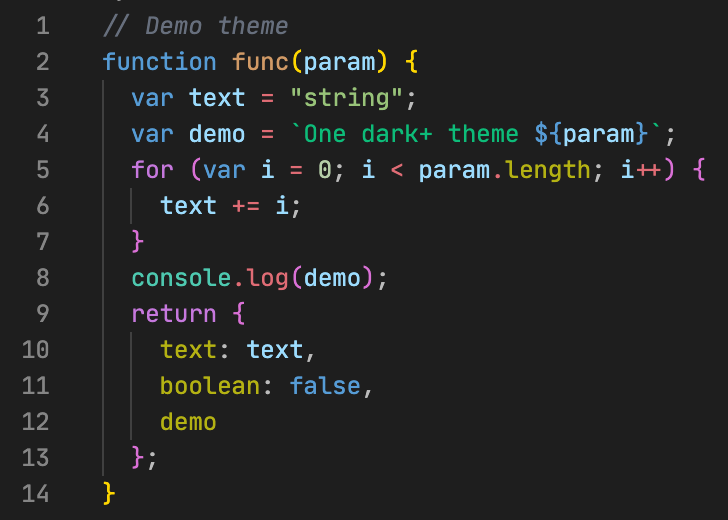
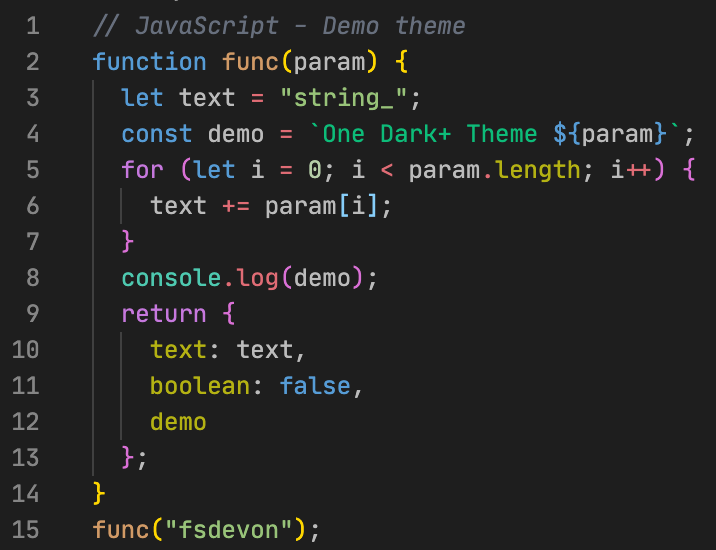
Updated color theme.

diff --git a/demo.js b/demo.js
@@ -1,0 +1,15 @@
+// JavaScript - Demo theme
+function func(param) {
+  let text = "string_";
+  const demo = `One Dark+ Theme ${param}`;
+  for (let i = 0; i < param.length; i++) {
+    text += param[i];
+  }
+  console.log(demo);
+  return {
+    text: text,
+    boolean: false,
+    demo
+  };
+}
+func("fsdevon");
